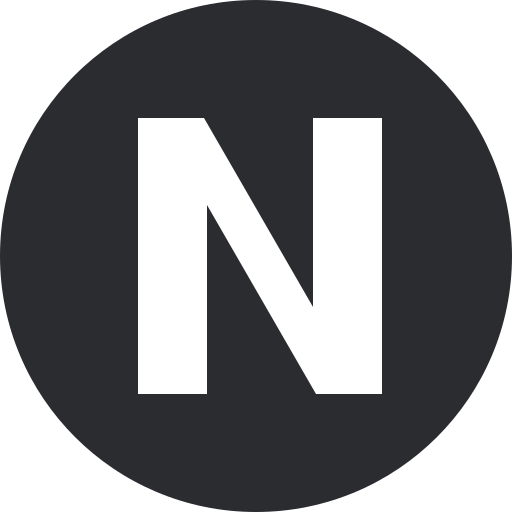
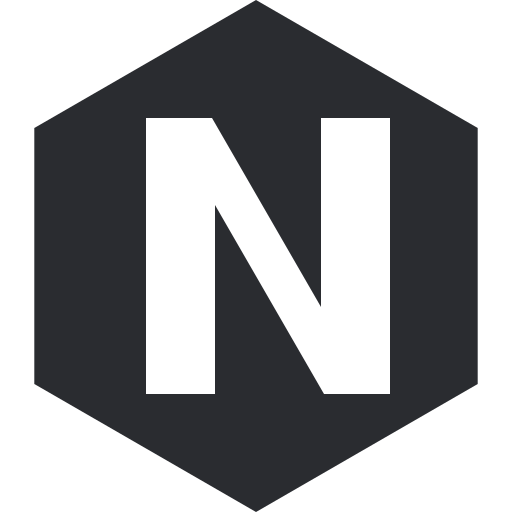
Halo soleil/lune, voie lactée derrière la ville, N dans un hexagone.

diff --git a/js/life.js b/js/life.js
@@ -45,7 +45,7 @@ export function updateLife(city, dt, night, hour = 12) {
 }
 
 export function createSkyDome() {
-  const geo = new THREE.SphereGeometry(2800, 24, 16);
+  const geo = new THREE.SphereGeometry(2800, 32, 24);
   const mat = new THREE.ShaderMaterial({
     side: THREE.BackSide,
     depthWrite: false,
@@ -53,6 +53,7 @@ export function createSkyDome() {
     uniforms: {
       uTop: { value: new THREE.Color("#9ec9e8") },
       uHorizon: { value: new THREE.Color("#dbeaf4") },
+      uNight: { value: 0 },
     },
     vertexShader: `
       varying vec3 vPos;
@@ -64,12 +65,41 @@ export function createSkyDome() {
     fragmentShader: `
       uniform vec3 uTop;
       uniform vec3 uHorizon;
+      uniform float uNight;
       varying vec3 vPos;
+
+      float hash(vec2 p) {
+        return fract(sin(dot(p, vec2(127.1, 311.7))) * 43758.5453);
+      }
+
       void main() {
         vec3 dir = normalize(vPos);
         float h = clamp(dir.y * 0.5 + 0.5, 0.0, 1.0);
         float k = smoothstep(0.4, 0.66, h);
-        gl_FragColor = vec4(mix(uHorizon, uTop, k), 1.0);
+        vec3 col = mix(uHorizon, uTop, k);
+
+        float n = uNight;
+        vec3 gaxis = normalize(vec3(0.22, 0.58, 0.78));
+        float gal = 1.0 - abs(dot(dir, gaxis));
+        float band = pow(smoothstep(0.42, 1.0, gal), 1.8);
+        vec3 milky = vec3(0.72, 0.68, 0.82) * band * n * 0.42;
+        milky += vec3(0.95, 0.9, 0.98) * pow(band, 5.0) * n * 0.38;
+        col += milky;
+
+        float stars = 0.0;
+        vec2 s1 = floor(dir.xy * 260.0 + dir.z * 17.0);
+        float h1 = hash(s1);
+        stars += step(0.984, h1) * pow(h1, 36.0);
+        vec2 s2 = floor(dir.xz * 420.0 + dir.y * 23.0);
+        float h2 = hash(s2 + 19.2);
+        stars += step(0.991, h2) * pow(h2, 70.0) * 1.4;
+        vec2 s3 = floor(dir.yz * 140.0 + dir.x * 9.0);
+        float h3 = hash(s3 + 71.4);
+        stars += step(0.996, h3) * pow(h3, 20.0) * 0.55;
+        stars *= 0.35 + band * 2.2;
+        col += vec3(1.0, 0.97, 0.92) * stars * n;
+
+        gl_FragColor = vec4(col, 1.0);
       }
     `,
   });
@@ -79,27 +109,63 @@ export function createSkyDome() {
   return mesh;
 }
 
-function makeSkyOrb(radius, glowScale) {
+function makeGlowMap() {
+  const c = document.createElement("canvas");
+  c.width = c.height = 256;
+  const ctx = c.getContext("2d");
+  const g = ctx.createRadialGradient(128, 128, 0, 128, 128, 128);
+  g.addColorStop(0, "rgba(255,255,255,1)");
+  g.addColorStop(0.1, "rgba(255,255,255,0.9)");
+  g.addColorStop(0.22, "rgba(255,255,255,0.45)");
+  g.addColorStop(0.48, "rgba(255,255,255,0.12)");
+  g.addColorStop(1, "rgba(255,255,255,0)");
+  ctx.fillStyle = g;
+  ctx.fillRect(0, 0, 256, 256);
+  const tex = new THREE.CanvasTexture(c);
+  tex.colorSpace = THREE.SRGBColorSpace;
+  return tex;
+}
+
+let GLOW_MAP;
+
+function glowSprite(scale, opacity) {
+  if (!GLOW_MAP) GLOW_MAP = makeGlowMap();
+  const mat = new THREE.SpriteMaterial({
+    map: GLOW_MAP,
+    color: "#ffffff",
+    blending: THREE.AdditiveBlending,
+    transparent: true,
+    opacity,
+    depthTest: true,
+    depthWrite: false,
+    fog: false,
+    toneMapped: false,
+  });
+  const s = new THREE.Sprite(mat);
+  s.scale.set(scale, scale, 1);
+  s.renderOrder = -13;
+  s.frustumCulled = false;
+  return s;
+}
+
+function makeSkyOrb(radius) {
   const g = new THREE.Group();
   const core = new THREE.Mesh(
-    new THREE.SphereGeometry(radius, 20, 16),
-    new THREE.MeshBasicMaterial({ color: "#ffffff", fog: false, toneMapped: false, depthTest: true, depthWrite: false })
-  );
-  const halo = new THREE.Mesh(
-    new THREE.SphereGeometry(radius * glowScale, 16, 12),
+    new THREE.SphereGeometry(radius, 24, 18),
     new THREE.MeshBasicMaterial({
       color: "#ffffff",
-      transparent: true,
-      opacity: 0.28,
       fog: false,
       toneMapped: false,
       depthTest: true,
       depthWrite: false,
     })
   );
-  g.add(halo, core);
+  const inner = glowSprite(radius * 6.2, 0.95);
+  const outer = glowSprite(radius * 13.5, 0.7);
+  g.add(outer, inner, core);
   g.userData.core = core;
-  g.userData.halo = halo;
+  g.userData.halo = inner;
+  g.userData.haloOuter = outer;
   g.renderOrder = -12;
   g.frustumCulled = false;
   return g;
@@ -195,17 +261,16 @@ export function createCelestial() {
   group.name = "celestial";
   group.frustumCulled = false;
   const sky = createSkyDome();
-  const stars = createStars();
   const debris = createDebris();
-  group.add(sky, stars, debris);
+  group.add(sky, debris);
 
   const world = new THREE.Group();
   world.name = "horizon";
-  const sun = makeSkyOrb(78, 2.5);
-  const moon = makeSkyOrb(56, 2.2);
+  const sun = makeSkyOrb(82);
+  const moon = makeSkyOrb(64);
   world.add(sun, moon);
 
-  return { group, world, sky, stars, sun, moon, debris };
+  return { group, world, sky, stars: null, sun, moon, debris };
 }
 
 export function applyCelestial(celestial, state) {
@@ -226,15 +291,28 @@ export function applyCelestial(celestial, state) {
   if (h >= 5 && h < 8.2) sunCol = "#f4b4c8";
   else if (h >= 16.2 && h < 20.5) sunCol = "#ff4e2c";
   celestial.sun.userData.core.material.color.set(sunCol);
-  celestial.sun.userData.halo.material.color.set(sunCol);
-  celestial.sun.userData.halo.material.opacity = 0.18 + sunAmt * 0.28;
-  celestial.moon.userData.core.material.color.set("#f7f0e2");
-  celestial.moon.userData.halo.material.color.set("#fff6e8");
-  celestial.moon.userData.halo.material.opacity = 0.22 + moonAmt * 0.28;
+  if (celestial.sun.userData.halo) {
+    celestial.sun.userData.halo.material.color.set(sunCol);
+    celestial.sun.userData.halo.material.opacity = 0.55 + sunAmt * 0.45;
+  }
+  if (celestial.sun.userData.haloOuter) {
+    celestial.sun.userData.haloOuter.material.color.set(sunCol);
+    celestial.sun.userData.haloOuter.material.opacity = 0.28 + sunAmt * 0.4;
+  }
+  celestial.moon.userData.core.material.color.set("#fffaf2");
+  if (celestial.moon.userData.halo) {
+    celestial.moon.userData.halo.material.color.set("#fff6e4");
+    celestial.moon.userData.halo.material.opacity = 0.7 + moonAmt * 0.3;
+  }
+  if (celestial.moon.userData.haloOuter) {
+    celestial.moon.userData.haloOuter.material.color.set("#f3e6cc");
+    celestial.moon.userData.haloOuter.material.opacity = 0.4 + moonAmt * 0.45;
+  }
 
   const u = celestial.sky.material.uniforms;
   u.uTop.value.copy(state.sky);
   u.uHorizon.value.copy(state.horizon);
+  u.uNight.value = state.night;
   updateStars(celestial.stars, celestial.debris, state.night);
 }
 

diff --git a/index.html b/index.html
@@ -17,7 +17,7 @@
       href="https://fonts.googleapis.com/css2?family=DM+Mono:wght@400;500&family=Inter:wght@400;500;600&display=swap"
       rel="stylesheet"
     />
-    <link rel="stylesheet" href="./css/style.css?v=20260914d" />
+    <link rel="stylesheet" href="./css/style.css?v=20260914e" />
     <script type="importmap">
       {
         "imports": {
@@ -105,6 +105,6 @@
         }
       }, 8000);
     </script>
-    <script type="module" src="./js/main.js?v=20260914d"></script>
+    <script type="module" src="./js/main.js?v=20260914e"></script>
   </body>
 </html>

diff --git a/css/style.css b/css/style.css
@@ -65,12 +65,13 @@ html, body {
 .mark {
   width: 58px;
   height: 58px;
-  border-radius: 50%;
+  border-radius: 0;
+  clip-path: polygon(50% 0%, 93.3% 25%, 93.3% 75%, 50% 100%, 6.7% 75%, 6.7% 25%);
   background: var(--ink);
   color: #fff;
   display: grid;
   place-items: center;
-  font-size: 24px;
+  font-size: 22px;
   font-weight: 600;
   letter-spacing: -0.04em;
 }
